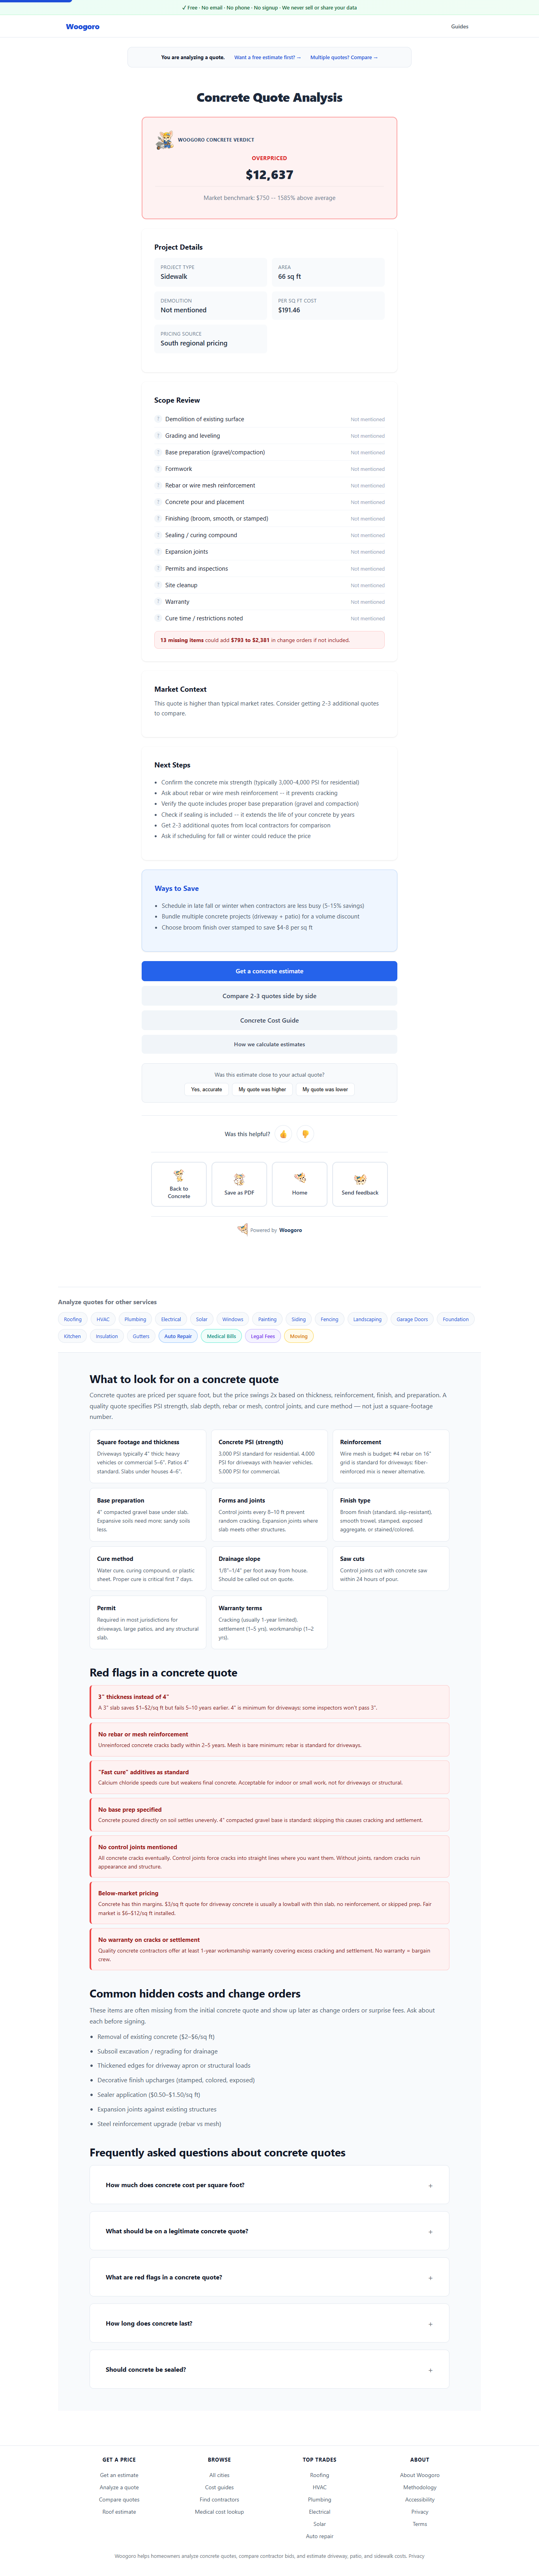
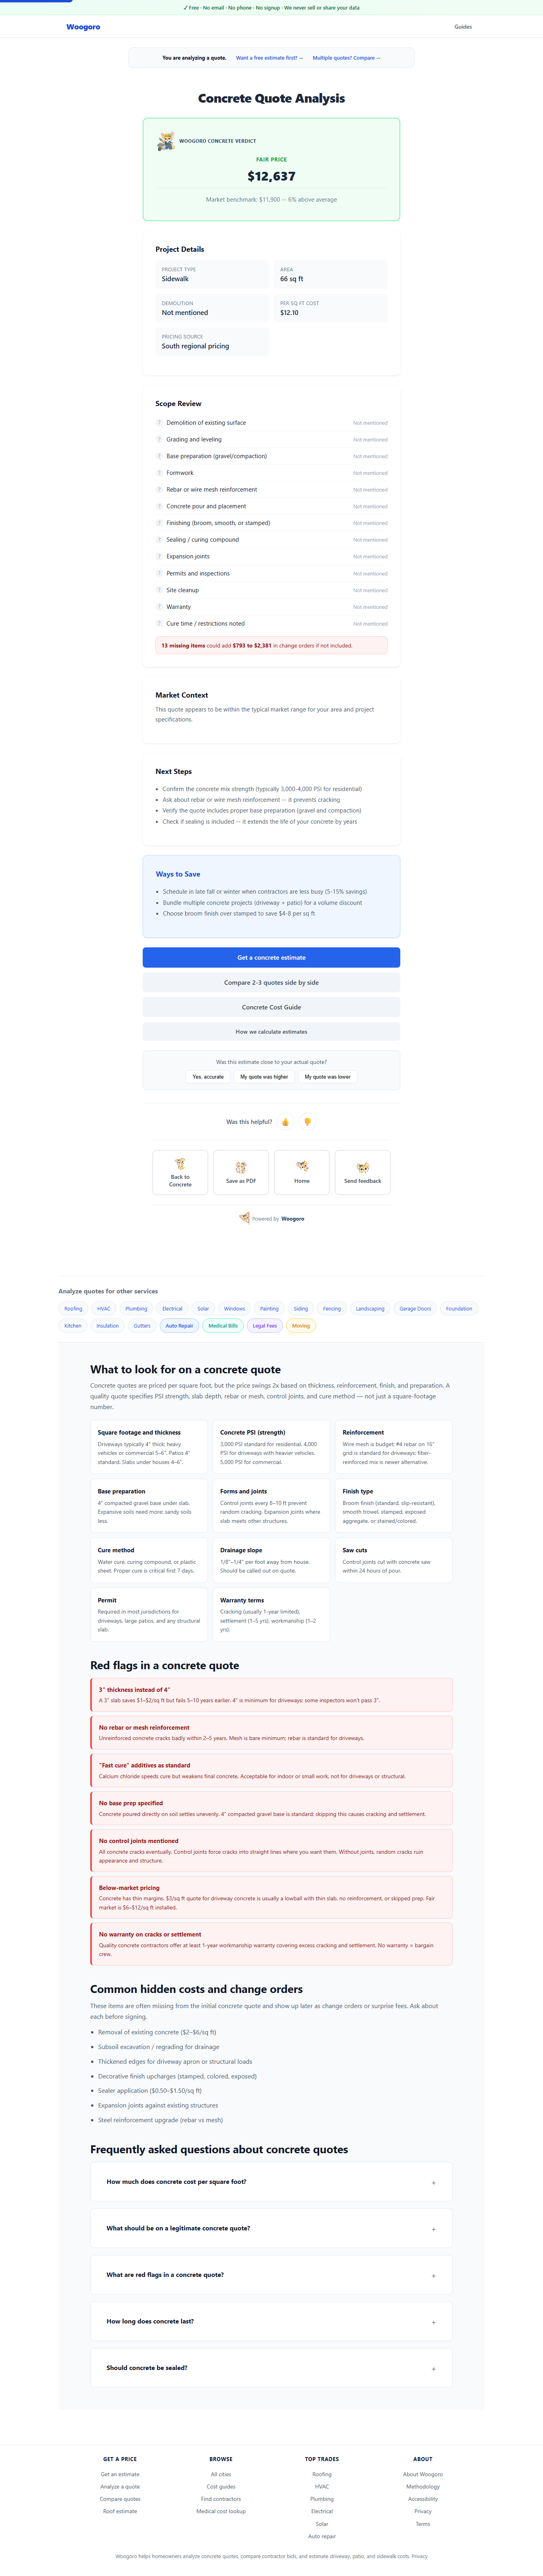
Housekeeping: scope parser, .gitignore, art assets, test outputs
- Scope parser (js/vertical-scope-all.js): broadened insulation-removal regex
  to match more "insul.*remov" cases and dropped the too-greedy bare "NOT.*remov"
  fragment. Added "non-\w+ed" and "non insulated" to the negation list so the
  scope counter stops counting negated features.
- .gitignore: ignore .vercel (local Vercel dev artifacts)
- Removed how-much-does-plumbing-cost.html (continuation of the numeric-slug
  cleanup that shipped in b9dc11dc74)
- New mascot/brand art folders: Rainbow Woogoro POC combos, Receipt Woogoro
  tier badges (bronze/silver/gold/platinum), Trudy emotion variants
- Assorted output/ test fixtures and audit-verify snapshots from recent
  parser/UI runs

diff --git a/js/vertical-scope-all.js b/js/vertical-scope-all.js
@@ -600,7 +600,7 @@
         { key: "air_sealing", label: "Air sealing", patterns: [/air seal/i, /seal.*penetrat/i, /foam.*seal/i, /top plate/i, /can light/i] },
         { key: "baffles", label: "Baffles", patterns: [/baffle/i, /soffit vent/i, /rafter vent/i, /ventilation.*\d+/i] },
         { key: "vapor_barrier", label: "Vapor barrier", patterns: [/vapor barrier/i, /moisture barrier/i] },
-        { key: "removal", label: "Old insulation removal", patterns: [/remov.*(?:old|existing).*insul/i, /existing.*insul.*not.*remov/i, /NOT.*remov/i] },
+        { key: "removal", label: "Old insulation removal", patterns: [/remov.*(?:old|existing).*insul/i, /insul.*remov/i] },
         { key: "rebate", label: "Rebate eligible", patterns: [/rebate/i, /incentive/i, /tax credit/i, /utility rebate/i, /eligible/i] },
         { key: "cleanup", label: "Cleanup/disposal", patterns: [/cleanup/i, /clean.?up/i, /disposal/i, /haul/i] },
         { key: "hatch", label: "Hatch insulation", patterns: [/hatch/i, /attic.*access/i, /attic.*door/i] },
@@ -877,7 +877,7 @@
 
     // Scope detection (with negation handling)
     var scope = [];
-    var negationPattern = /\bnot\s+included\b|\bnot\s+available\b|\bexcluded\b|\bnot\s+covered\b|\blimited\s+to\s+existing\b|\bowner\s+responsible\b|\bextra\s+cost\b|\badditional\s+charge\b/i;
+    var negationPattern = /\bnot\s+included\b|\bnot\s+available\b|\bexcluded\b|\bnot\s+covered\b|\blimited\s+to\s+existing\b|\bowner\s+responsible\b|\bextra\s+cost\b|\badditional\s+charge\b|\bnon-\w+ed\b|\bnon\s+insulated\b/i;
     if (config.scope) {
       var tLower = t.toLowerCase();
       var lines = tLower.split(/\n/);